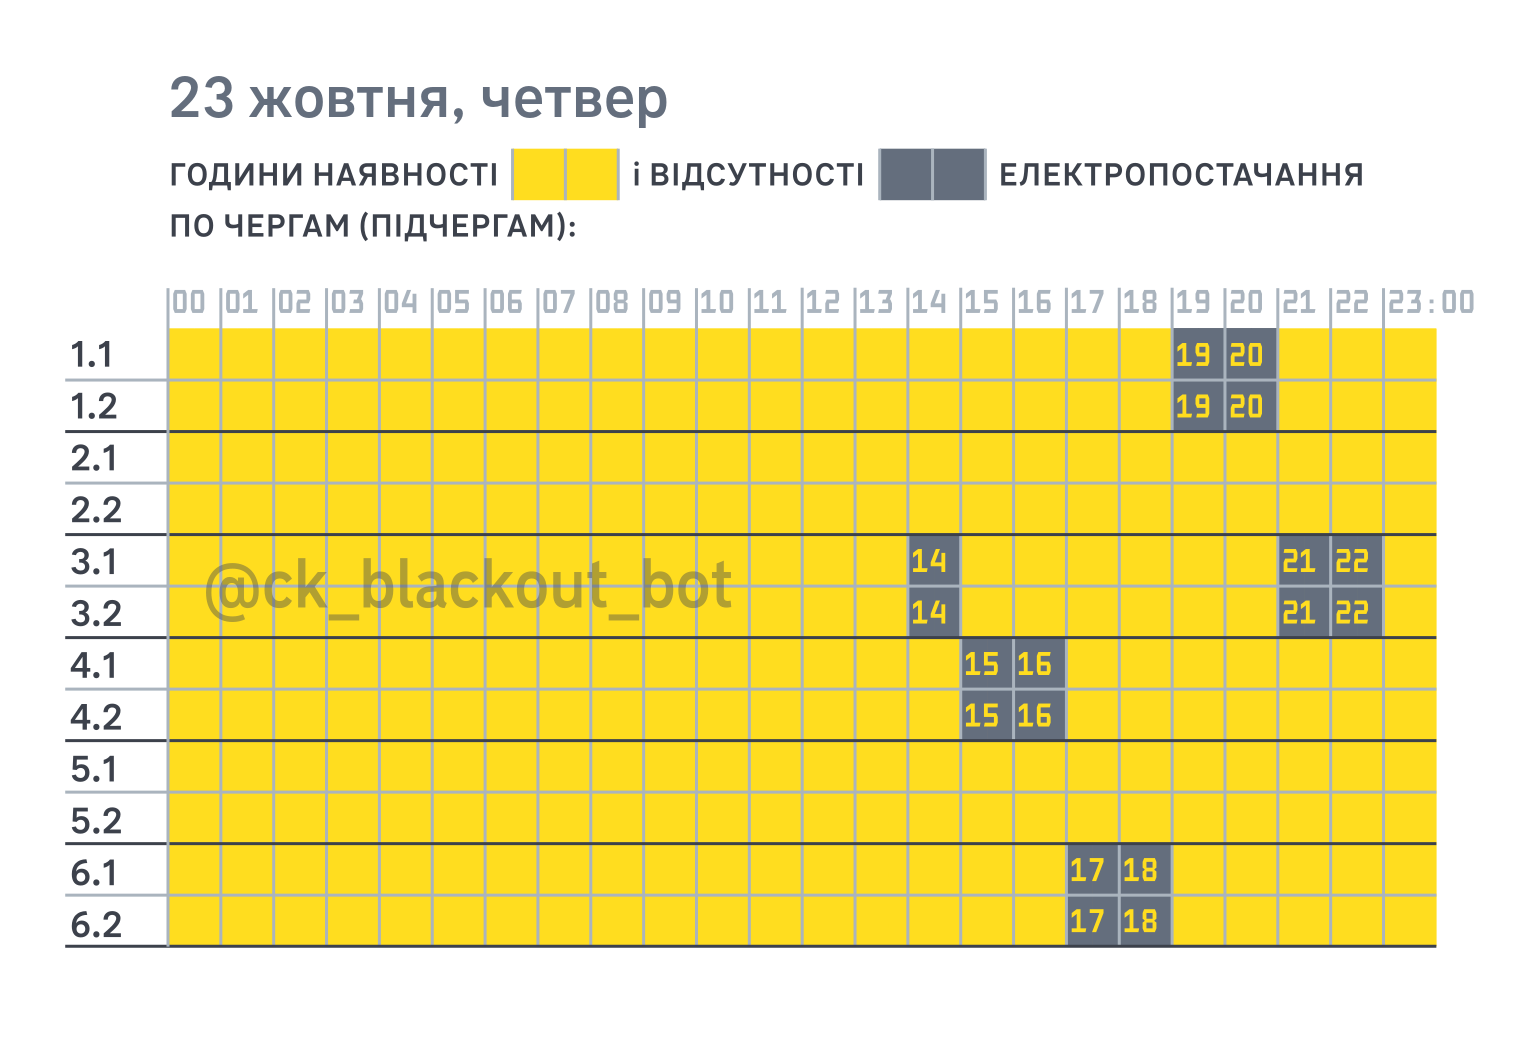
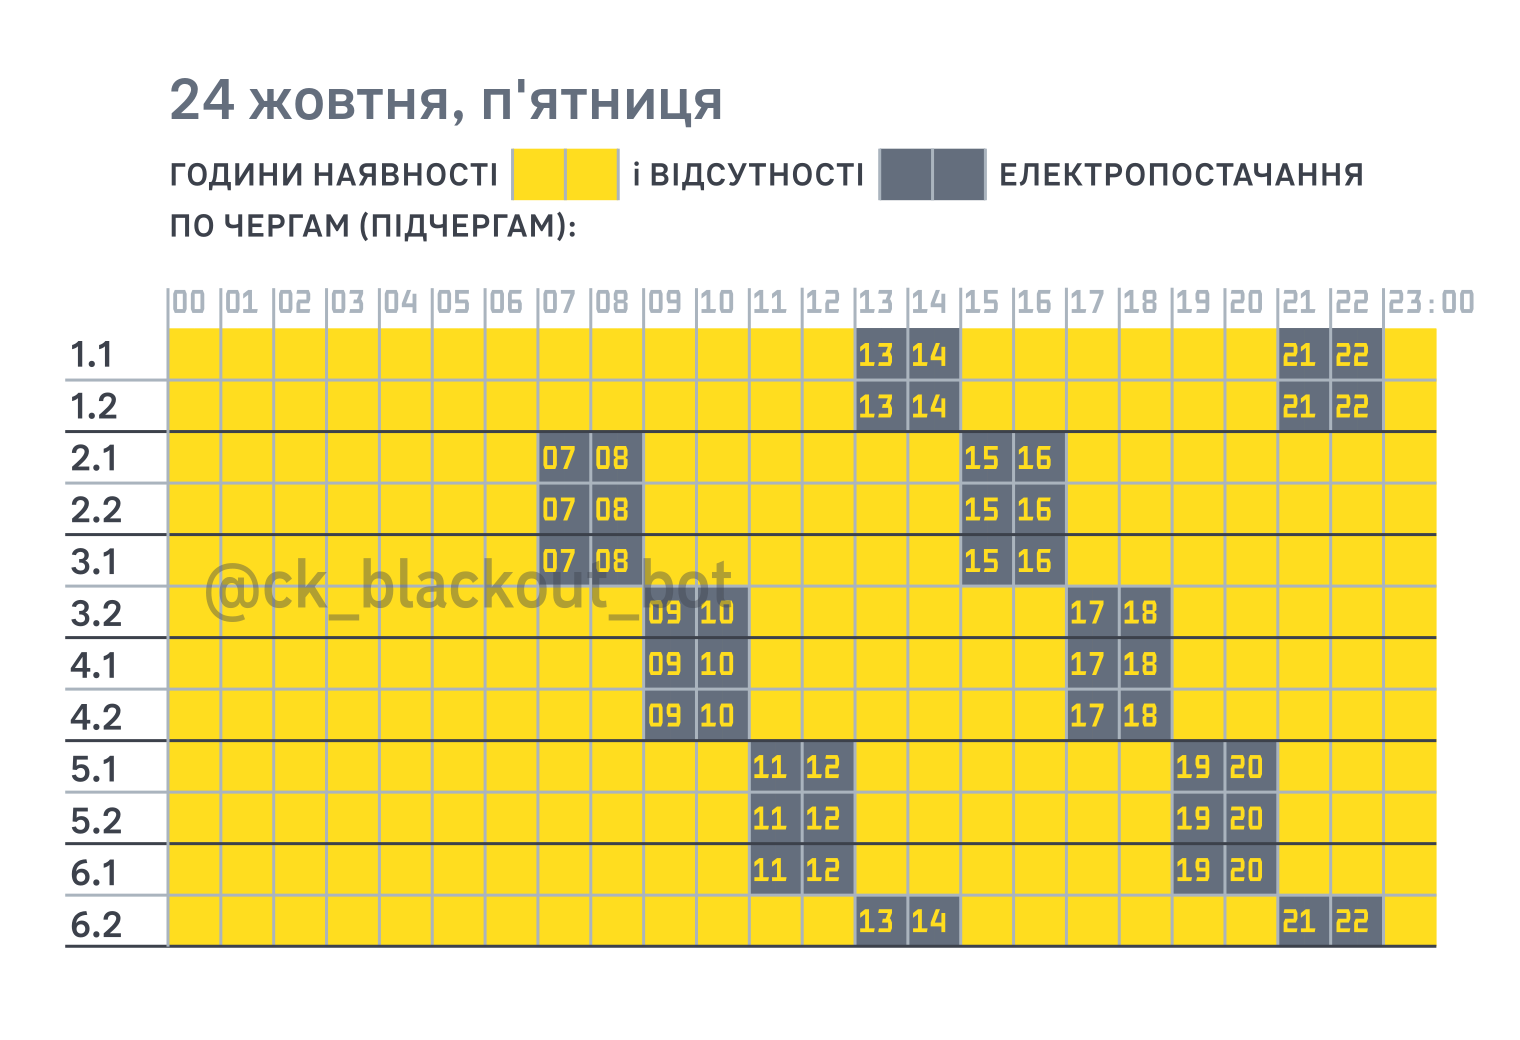
21

diff --git a/periodstojson.py b/periodstojson.py
@@ -4,23 +4,23 @@ from pathlib import Path
 
 # === Вхідний текст ===
 text = """
-1.1 11:00 - 13:00, 19:00 - 21:00
-1.2 11:00 - 13:00, 19:00 - 21:00
+1.1 13:00 - 15:00, 21:00 - 23:00
+1.2 13:00 - 15:00, 21:00 - 23:00
 
-2.1 11:00 - 13:00, 19:00 - 21:00
-2.2 13:00 - 15:00, 21:00 - 23:00
+2.1 07:00 - 09:00, 15:00 - 17:00
+2.2 07:00 - 09:00, 15:00 - 17:00
 
-3.1 13:00 - 15:00, 21:00 - 23:00
-3.2 13:00 - 15:00, 21:00 - 23:00
+3.1 07:00 - 09:00, 15:00 - 17:00
+3.2 09:00 - 11:00, 17:00 - 19:00
 
-4.1 07:00 - 09:00, 15:00 - 17:00
-4.2 07:00 - 09:00, 15:00 - 17:00
+4.1 09:00 - 11:00, 17:00 - 19:00
+4.2 09:00 - 11:00, 17:00 - 19:00
 
-5.1 07:00 - 09:00, 15:00 - 17:00
-5.2 09:00 - 11:00, 17:00 - 19:00
+5.1 11:00 - 13:00, 19:00 - 21:00
+5.2 11:00 - 13:00, 19:00 - 21:00
 
-6.1 09:00 - 11:00, 17:00 - 19:00
-6.2 09:00 - 11:00, 17:00 - 19:00
+6.1 11:00 - 13:00, 19:00 - 21:00
+6.2 13:00 - 15:00, 21:00 - 23:00
 """.strip()
 
 # === Канали для кожної черги ===

diff --git a/sendtoall.py b/sendtoall.py
@@ -6,10 +6,10 @@ from dotenv import load_dotenv
 load_dotenv()
 
 # === Config ===
-BOT_TOKEN = "8291315042:AAHKAMx0TLQZslE8301MfhFaAgAVCnjSVvo"  # 🔹 встав свій токен
+BOT_TOKEN = "8177144072:AAG3bFK7I4leqrmsP5XmMCbtpIWUV3lhaDE"  # 🔹 встав свій токен
 ALLOWED_USERS = {1287504040, 348150320}  # 🔹 ID користувачів, яким дозволено надсилати
 CHANNELS = [
-    "-1003113234171","-1003145633887","-1003138079087","-1003128920788","-1002967860214","-1003033893922","-1003009930050","-1003170499896","-1003096266337","-1003169834725","-1002988126895"
+    "-1003113234171","-1003145633887","-1003147594459","-1003138079087","-1003128920788","-1002967860214","-1003033893922","-1003009930050","-1003170499896","-1003096266337","-1003169834725","-1002988126895"
 ]
 
 # ==== ЛОГІНГ ====
